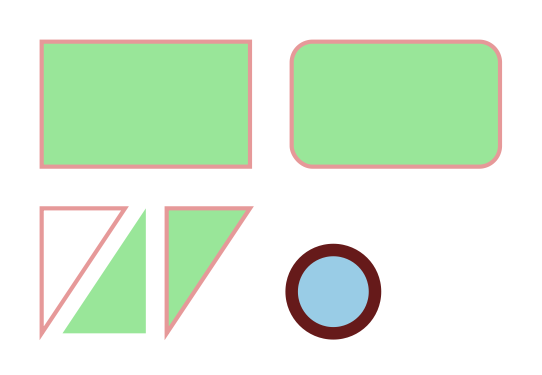
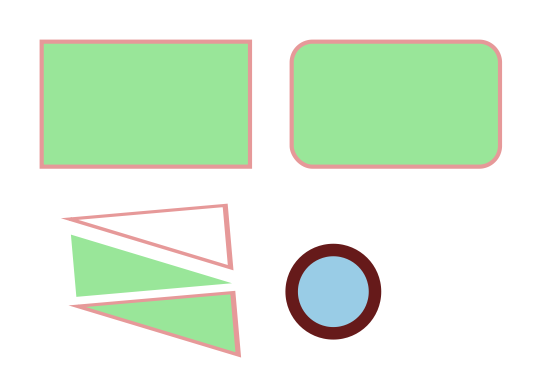
Added transforms: translate, scale, rotate

Changed region(s): [[0.059, 0.528, 0.4723, 0.968]]

diff --git a/README.md b/README.md
@@ -28,8 +28,8 @@ At the moment, I am torn about making this an almost drop-in replacement
 Some of the names above though are awkward for something generic.
 Calling `write-document` for `Vecto` seems a bit odd.
 
-Below is a test image as rendered by the `Vecto` back-end.
-You can download the same image [rendered by the `CL-PDF`](./images/draw-test.pdf).
+Below is a test image as rendered by the `Vecto` backend.
+You can download the same image [rendered by the `CL-PDF` backend](./images/draw-test.pdf).
 
 ![sample image from Vecto](./images/draw-test.png)
 
@@ -52,13 +52,21 @@ BACKEND STATUS
 | `move-text`             |       |       |       |
 | `move-to`               | ✓     | ✓     |       |
 | `rectangle`             | ✓     | ✓     |       |
+| `rotate`                | ✓     | ✓     |       |
+| `scale`                 | ✓     | ✓     |       |
 | `set-font`              |       |       |       |
 | `set-line-width`        | ✓     | ✓     |       |
 | `set-rgb-fill`          | ✓     | ✓     |       |
 | `set-rgb-stroke`        | ✓     | ✓     |       |
-| `translate`             |       |       |       |
+| `translate`             | ✓     | ✓     |       |
 | `with-saved-state`      | ✓     | ✓     |       |
-| `write-document`        |       |       |       |
+| `write-document`        | †     |       |       |
+
+† And, it turns out that without the `with-page` macro, there isn't
+a really useful way to implement `write-document` at a time when
+`CL-PDF` has written the page to the document but before it has
+discarded the document. So, I will have to think on that.
+
 
 
 PDF BACKEND
